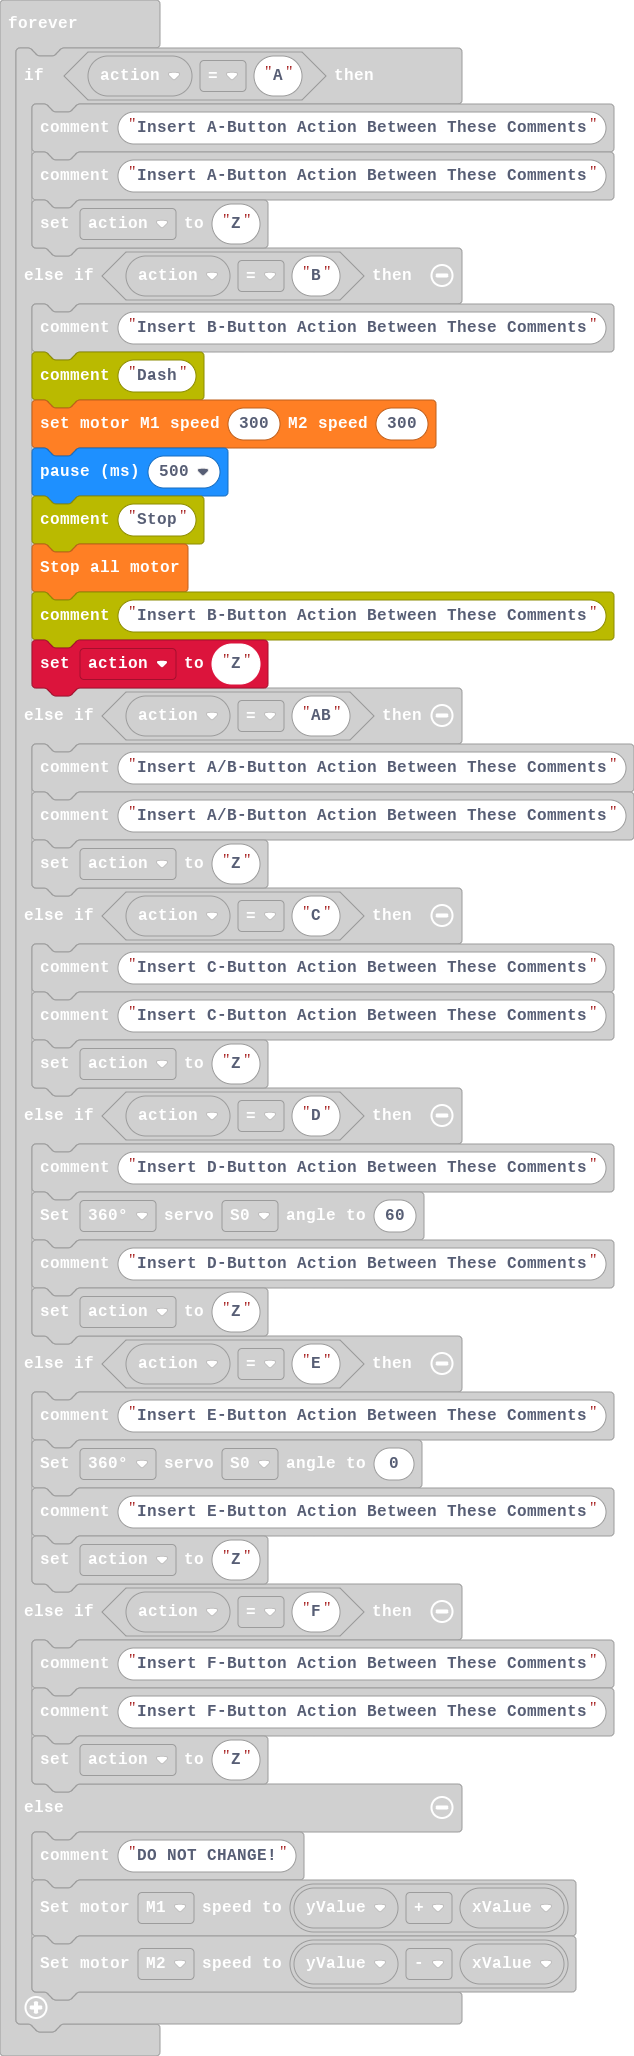
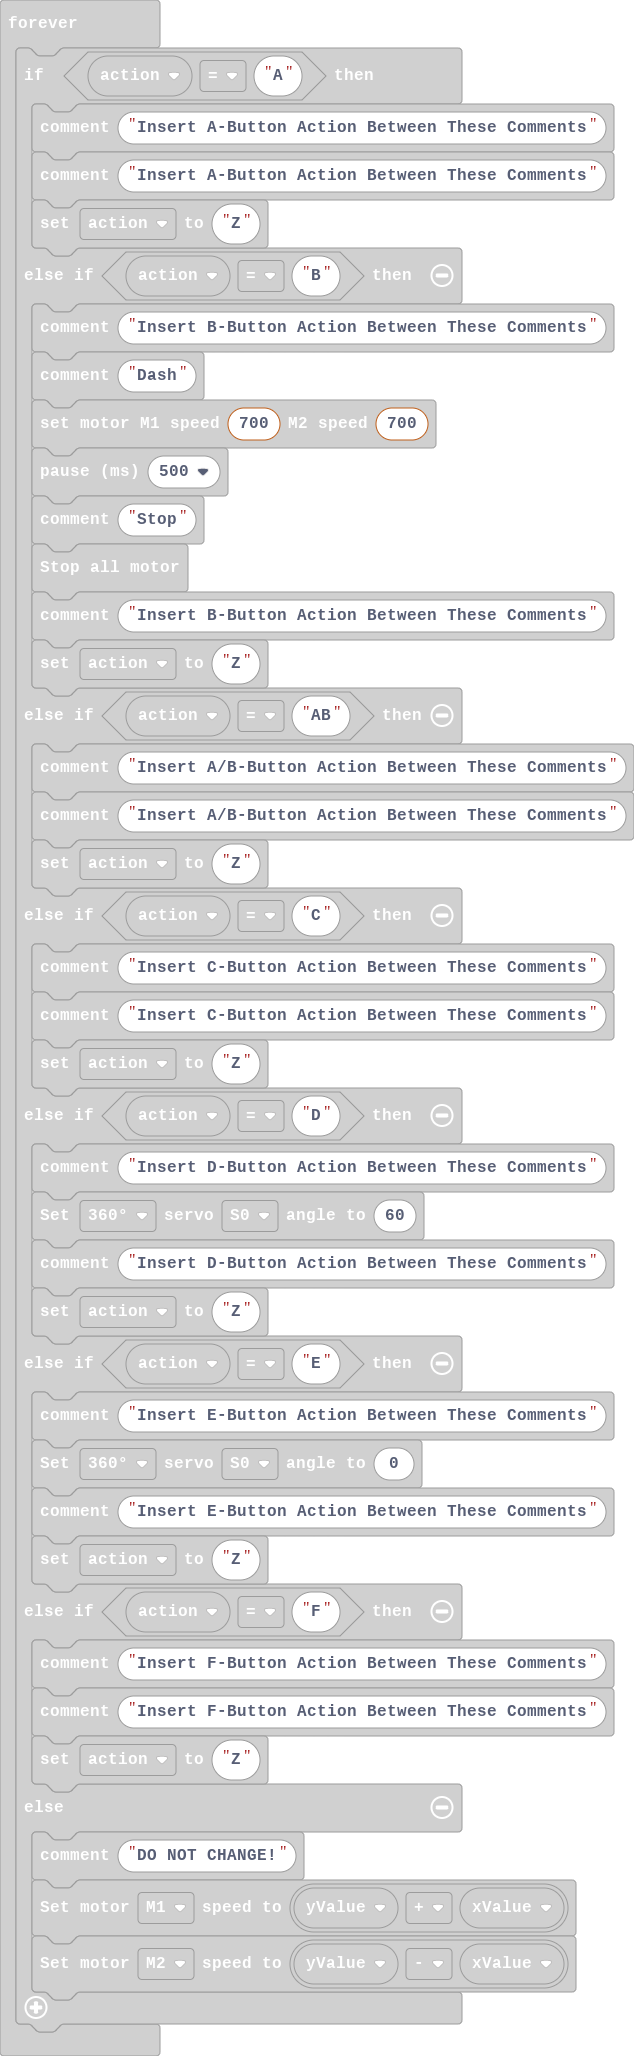
Update main.blocks, main.ts

Changed region(s): [[0.03, 0.1556, 0.989, 0.3424]]

diff --git a/main.ts b/main.ts
@@ -43,7 +43,7 @@ basic.forever(function () {
     } else if (action == "B") {
         comment.comment("Insert B-Button Action Between These Comments")
         comment.comment("Dash")
-        wuKong.setAllMotor(300, 300)
+        wuKong.setAllMotor(700, 700)
         basic.pause(500)
         comment.comment("Stop")
         wuKong.stopAllMotor()
